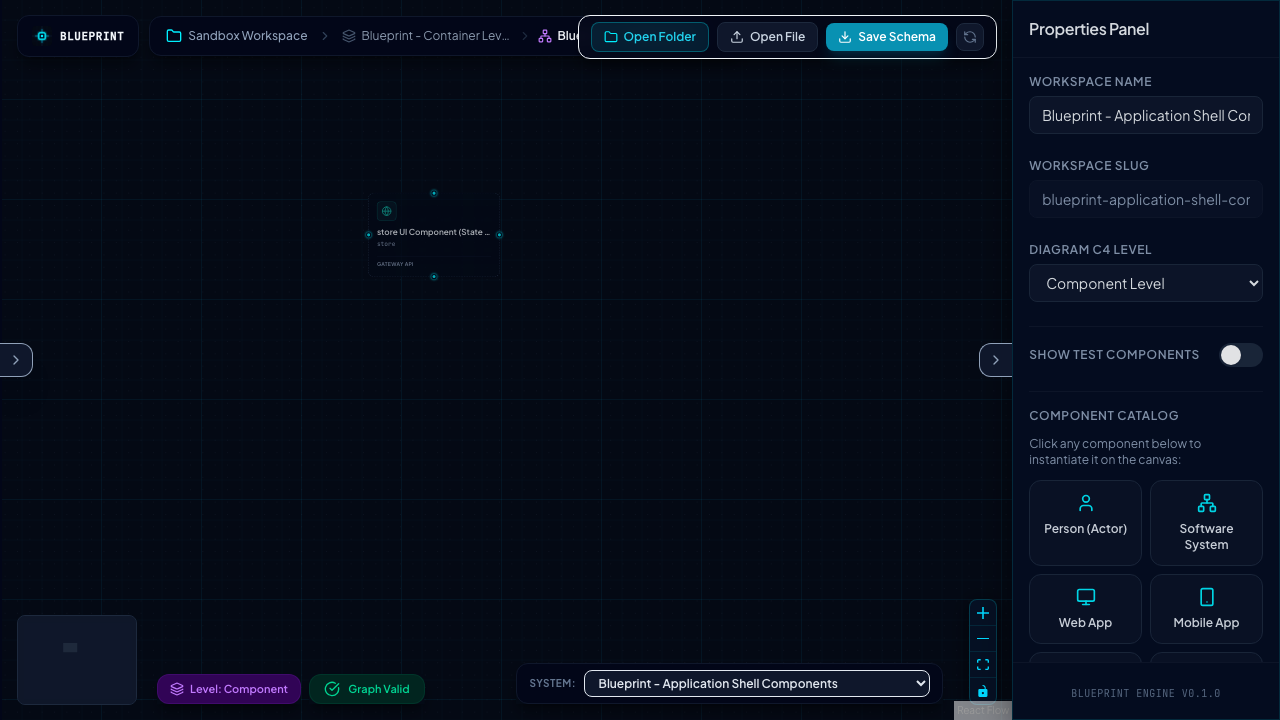
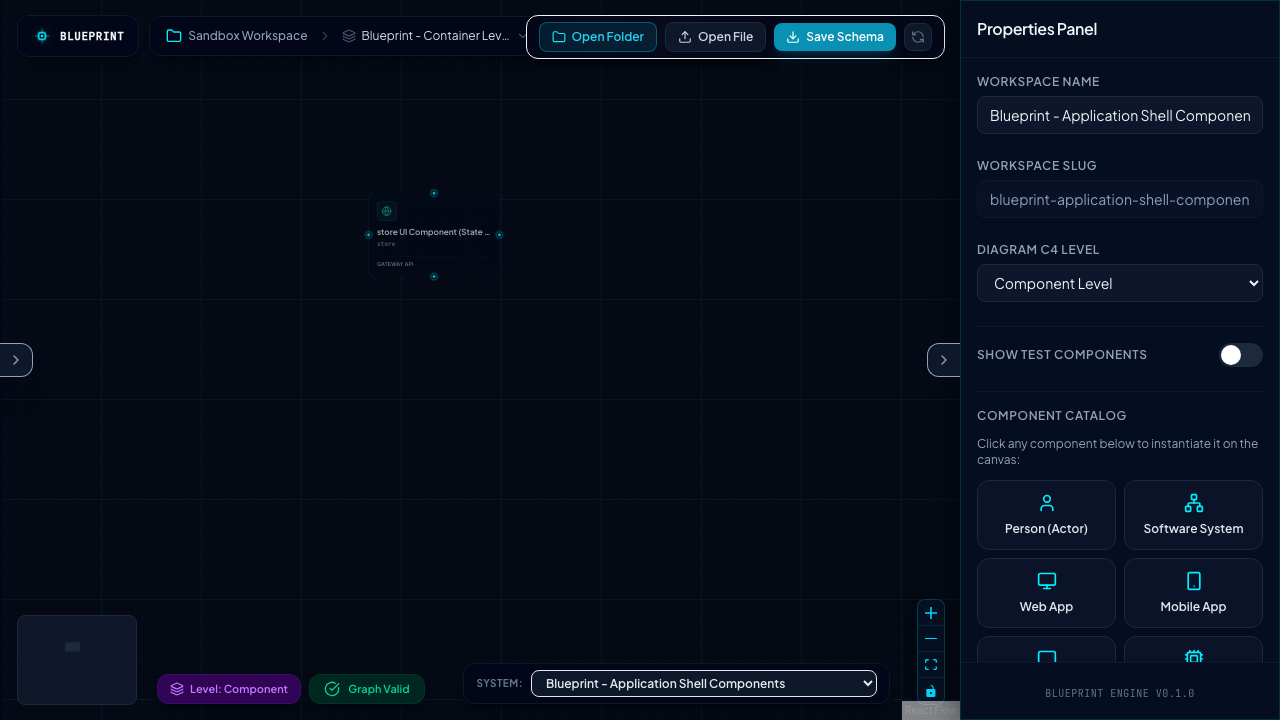
refactor: update breadcrumb navigation logic and flatten workspace hierarchy structure

diff --git a/src/components/Breadcrumbs.tsx b/src/components/Breadcrumbs.tsx
@@ -228,12 +228,21 @@ export const Breadcrumbs: React.FC = () => {
           const SegIcon = segConfig.icon;
 
           const currentFamily = getWorkspaceFamily(currentFilePath);
-          const sameLevelSystems = loadedSystems.filter(
-            s =>
-              s.schema.level === seg.level &&
-              s.path !== seg.path &&
-              getWorkspaceFamily(s.path) === currentFamily
-          );
+          const sameLevelSystems = loadedSystems.filter(s => {
+            if (s.schema.level !== seg.level || s.path === seg.path) {
+              return false;
+            }
+            if (isWorkspaceOpen) {
+              return true;
+            }
+            // In Sandbox mode, the root breadcrumb segment (idx === 0) allows switching
+            // to other workspaces/families' root diagrams. Subsequent segments (idx > 0)
+            // are restricted to the same workspace family.
+            if (idx === 0) {
+              return true;
+            }
+            return getWorkspaceFamily(s.path) === currentFamily;
+          });
 
           return (
             <React.Fragment key={`${seg.path}-${idx}`}>
